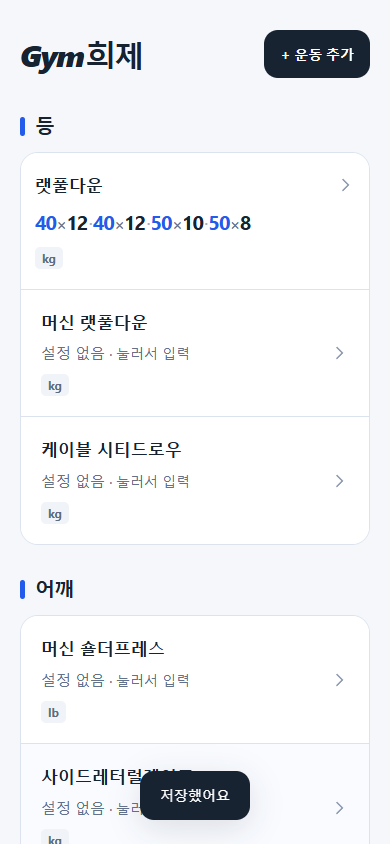
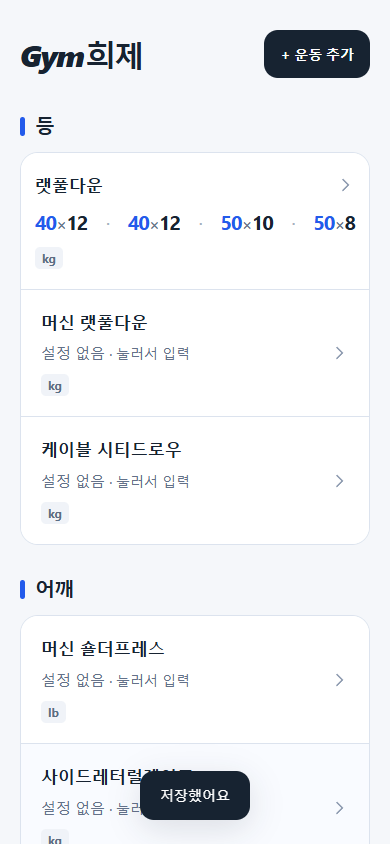
Improve mobile set spacing while preserving four-set row layout

Changed region(s): [[0.2462, 0.2464, 0.7077, 0.2773], [0.8, 0.2464, 0.9231, 0.2773]]

diff --git a/src/styles/ui.css b/src/styles/ui.css
@@ -631,8 +631,13 @@
     font-size: 1.25rem;
     letter-spacing: -0.95px;
   }
+  /* Share spare row width between sets; long numbers keep the minimum gap. */
+  .exercise-card--compact-sets .summary-item + .summary-item {
+    flex: 1 0 auto;
+  }
   .exercise-card--compact-sets .set-dot {
-    margin: 0 1px;
+    margin: 0 auto;
+    padding: 0 1px;
   }
   .exercise-card--compact-sets .times {
     margin: 0;

diff --git a/src/main.tsx b/src/main.tsx
@@ -4,7 +4,7 @@ import { App } from "./app/App";
 import { initializePwa } from "./pwa/lifecycle";
 import "./styles/app.css";
 document.documentElement.dataset.release =
-  import.meta.env.VITE_RELEASE ?? "1.1.2";
+  import.meta.env.VITE_RELEASE ?? "1.1.3";
 createRoot(document.getElementById("root")!).render(
   <React.StrictMode>
     <App />

diff --git a/README.md b/README.md
@@ -1,4 +1,4 @@
-# Gym희제 v1.1.2
+# Gym희제 v1.1.3
 
 세트마다 다른 중량과 반복 횟수를 기록하는 개인용 PWA입니다. 로그인이나 서버 저장 없이, 사용하는 기기의 브라우저에 기록합니다.
 
@@ -14,11 +14,12 @@
 - 기본·추가 운동 모두 상세 화면 상단의 ‘운동 삭제’로 삭제 가능
 - 첫 준비 완료 후 오프라인 조회·저장·재실행
 - 모바일 메인 목록의 3·4세트 기록은 동일한 20px 크기, 4세트 한 줄 표시
+- 남는 가로 폭을 세트 사이 공백으로 나누고 구분점은 공백 가운데 배치
 - 메인 목록·이전 기록·편집 화면의 중량 숫자는 파란색으로 강조
 
 기본 운동의 실제 중량과 반복은 비워 두었습니다. 문서와 화면 캡처에 등장하는 숫자는 **검증용 예시**이며 실제 앱의 초기 기록이 아닙니다.
 
-v1.1.2에서는 모바일 3세트와 4세트 기록의 숫자 크기를 20px로 통일했습니다. 두 경우 모두 화살표를 운동명 옆으로 배치하고 숫자 줄에 카드 전체 폭을 사용합니다. 중량 숫자만 파란색이며 반복 횟수와 구분 기호는 구별됩니다. 글자 확대나 더 긴 기록은 줄바꿈할 수 있으며 값을 숨기거나 묶지 않습니다. 운동 데이터·DB 형식은 그대로 유지합니다.
+v1.1.3에서는 모바일 3세트와 4세트 기록의 남는 가로 폭을 세트 사이에 나누어 읽기 쉽게 했습니다. 구분점 양쪽 공백은 균등하게 늘어나고, 긴 숫자는 남은 폭에 맞춰 간격이 줄어듭니다. 기존 20px 숫자 크기와 파란색 중량 강조를 유지합니다. 두 경우 모두 화살표를 운동명 옆으로 배치하고 숫자 줄에 카드 전체 폭을 사용합니다. 글자 확대나 더 긴 기록은 줄바꿈할 수 있으며 값을 숨기거나 묶지 않습니다. 운동 데이터·DB 형식은 그대로 유지합니다.
 
 ## 운동 삭제 방법
 

diff --git a/docs/VALIDATION.md b/docs/VALIDATION.md
@@ -1,5 +1,14 @@
 # Gym희제 v1.1 검증 기록
 
+## v1.1.3 세트 사이 간격
+
+2026-10-01: 단위 검사 59개 통과. Edge·WebKit 브라우저 검사 24개 중 21개 통과, 기존 도구 제한에 따른 제외 3개, 실패 0개.
+
+- 모바일 메인 목록의 3·4세트는 남는 가로 공간을 세트 사이에 나누고 구분점 양쪽에 균등한 공백을 표시한다. 숫자 크기 20px와 파란색 중량은 유지했다.
+- 390·402·430px에서 일반적인 두 자리 중량의 4세트 값 사이 간격이 모두 16px 이상이었다. 세 자리·소수 중량을 포함한 네 조합도 네 세트 모두 한 줄에 표시됐다. 더 긴 숫자는 간격이 자동으로 좁아진다.
+- 3세트 사이 간격, 200% 글자 확대 시 가로 넘침 없음, 기존 데스크톱 크기 유지, 기록 보존·명시적 삭제·새 버전 적용·오프라인 저장 검사를 통과했다.
+- DB 이름·버전·저장 데이터 구조·배포 주소·manifest id·서비스 워커 scope는 변경하지 않았다. 화면 캡처를 확인했으며 실제 iPhone 검증을 대신하는 것은 아니다.
+
 ## v1.1.2 글자 크기 통일과 중량 강조
 
 2026-10-01: 단위 검사 59개 통과. Edge·WebKit 브라우저 검사 24개 중 21개 통과, 기존 도구 제한에 따른 제외 3개, 실패 0개.
